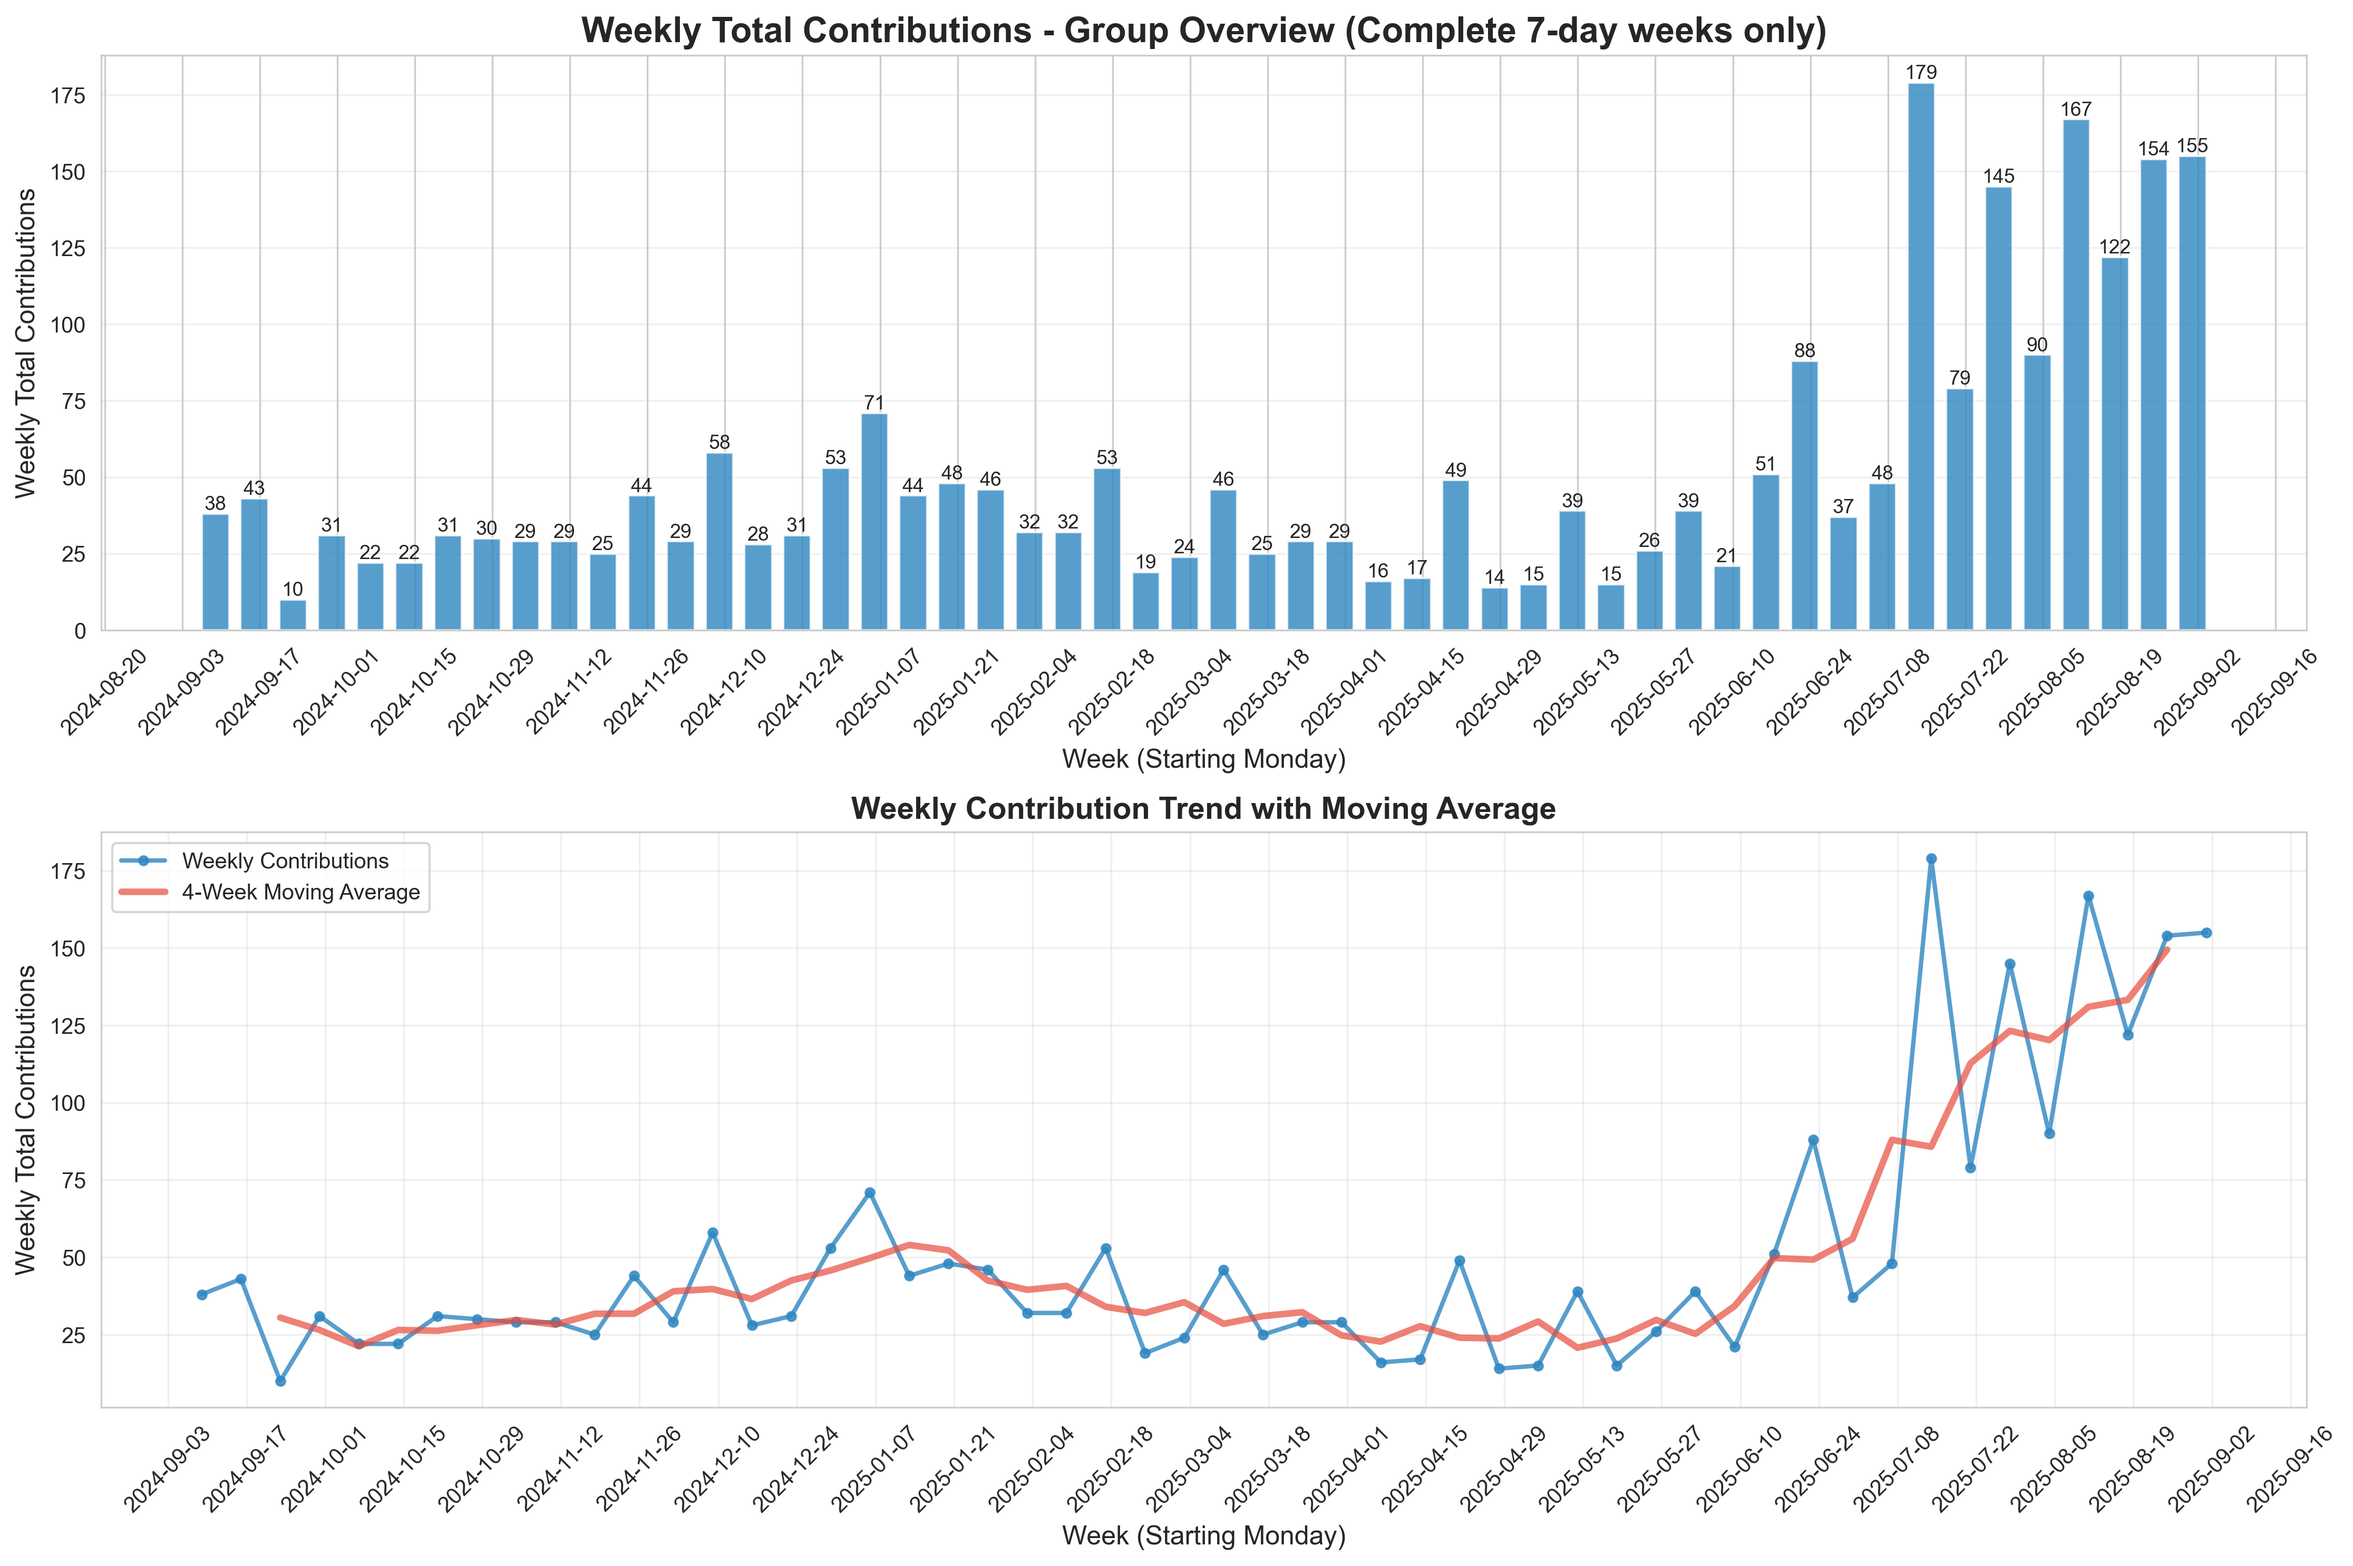
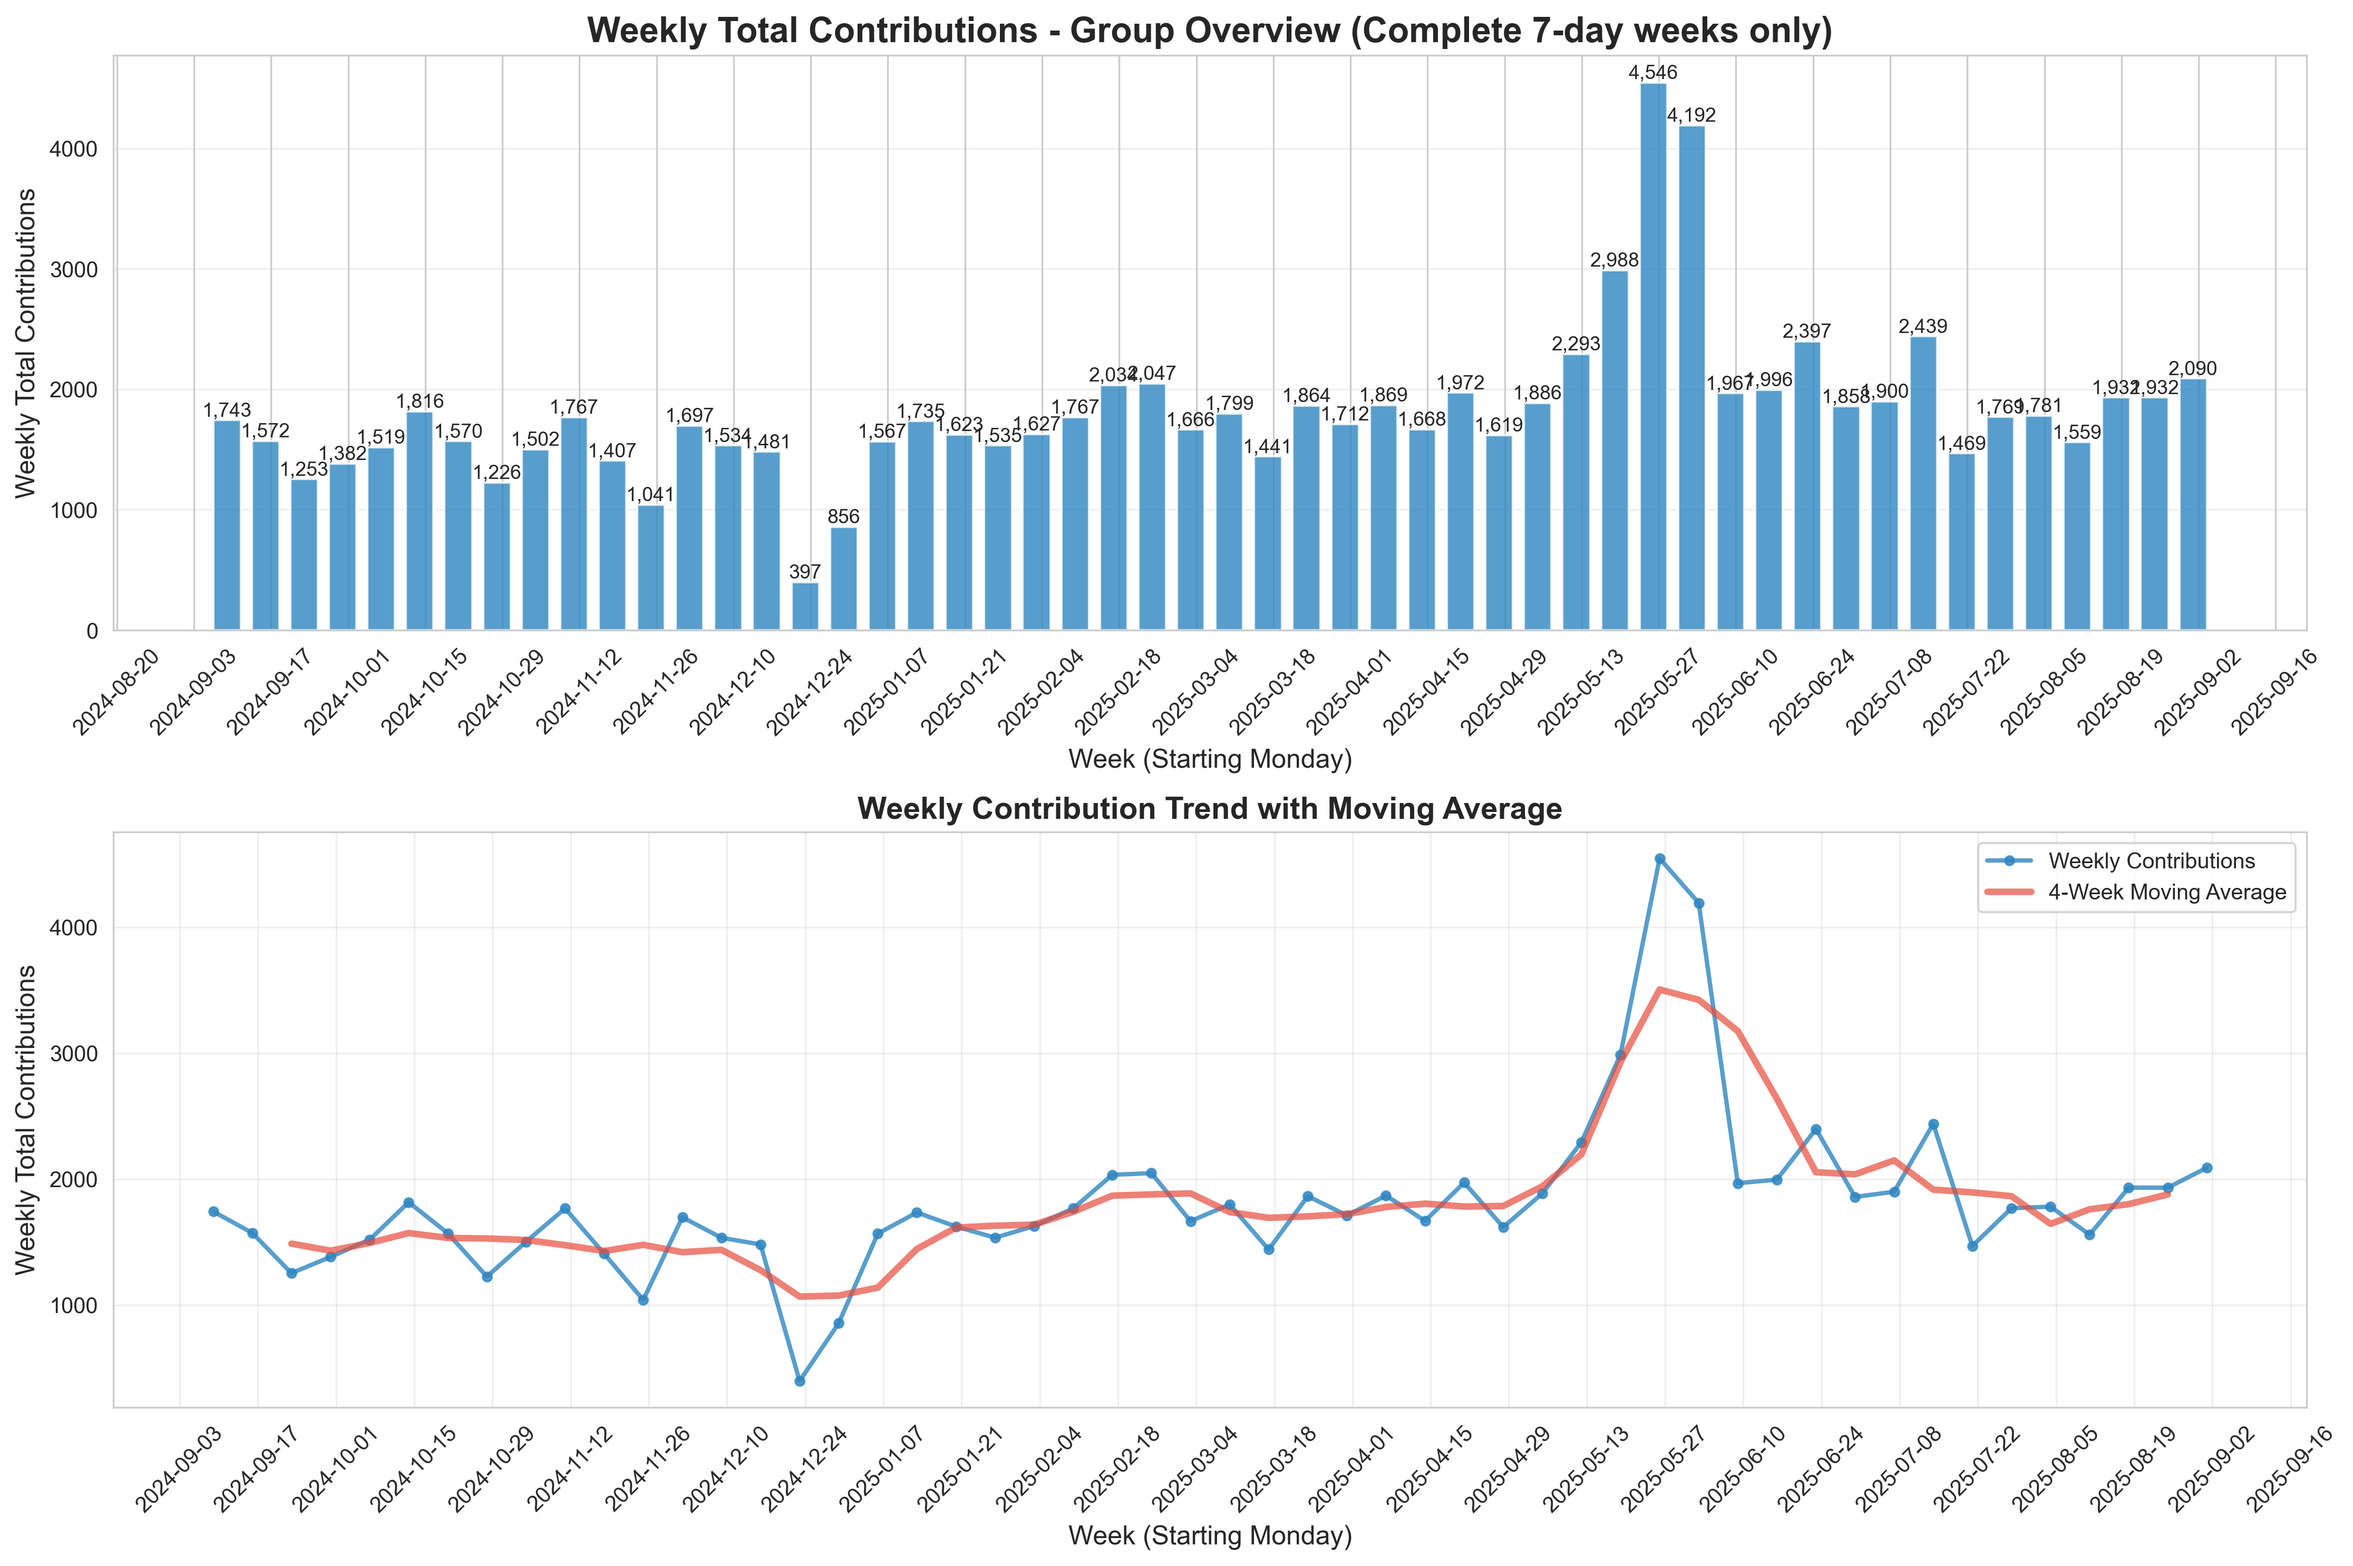
Update weekly trends sample with GitHub employees data
- Replace sample_weekly_trends.png with GitHub employees group analysis
- Update README description to reflect GitHub employees sample data
- Consistent sample data across all visualization examples (50 GitHub employees)
- New weekly stats: 1,814 avg weekly contributions, peak week 2025-05-26 (4,546 contributions)

diff --git a/README.md b/README.md
@@ -165,7 +165,7 @@ python3 github_group_trends.py -f batch_analysis_visualization_data.json
 
 ![Sample Weekly Trends](sample_weekly_trends.png)
 
-*Sample weekly contribution trends showing group activity patterns over time with 4-week moving average*
+*Sample weekly contribution trends showing group activity patterns over time with 4-week moving average (Sample: GitHub employees)*
 
 ### User Comparison Analysis
 
